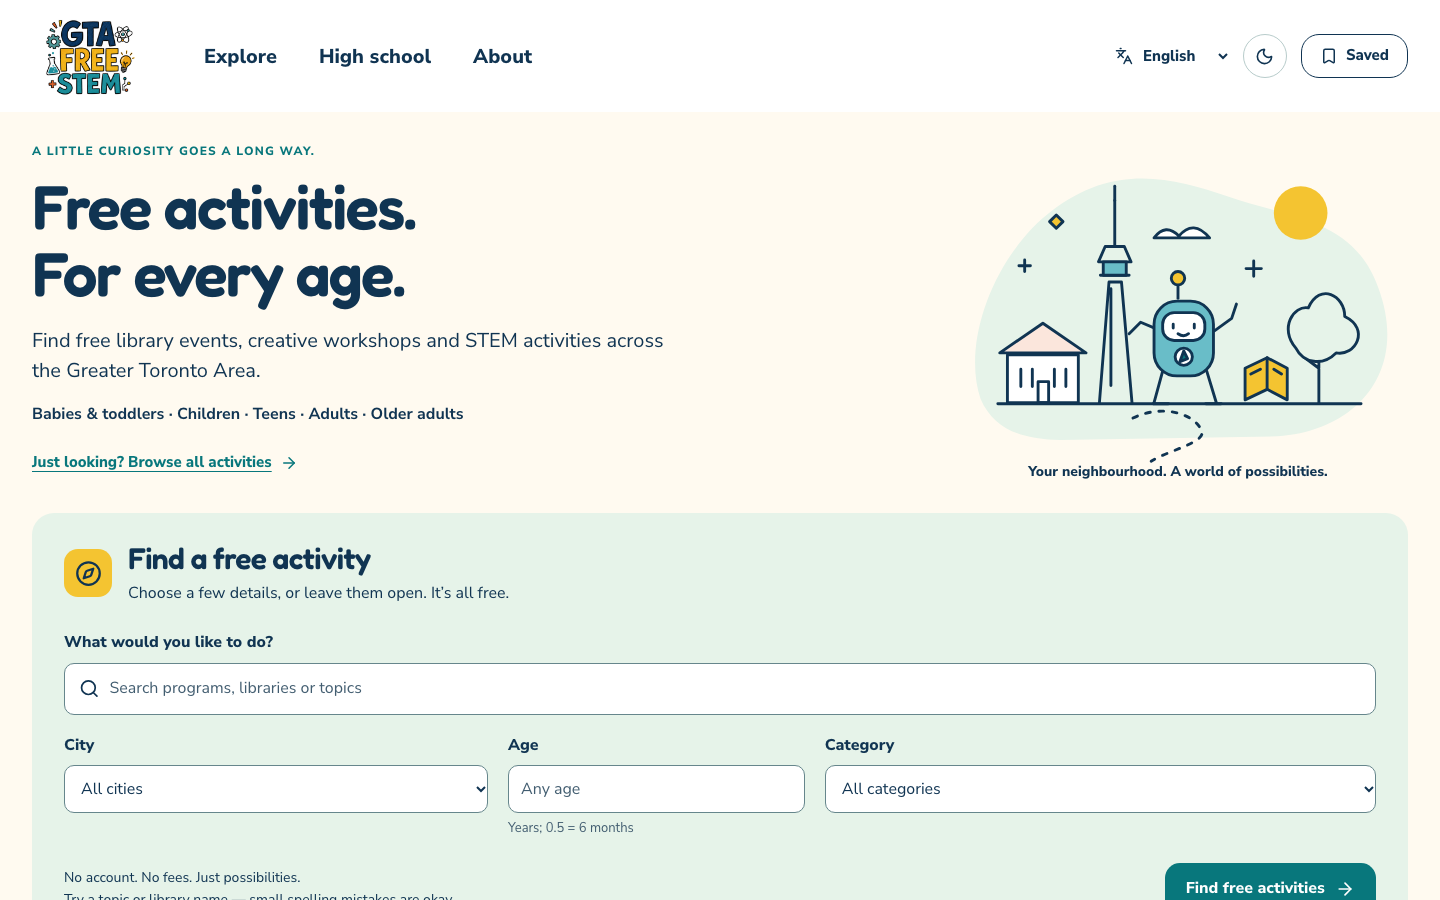
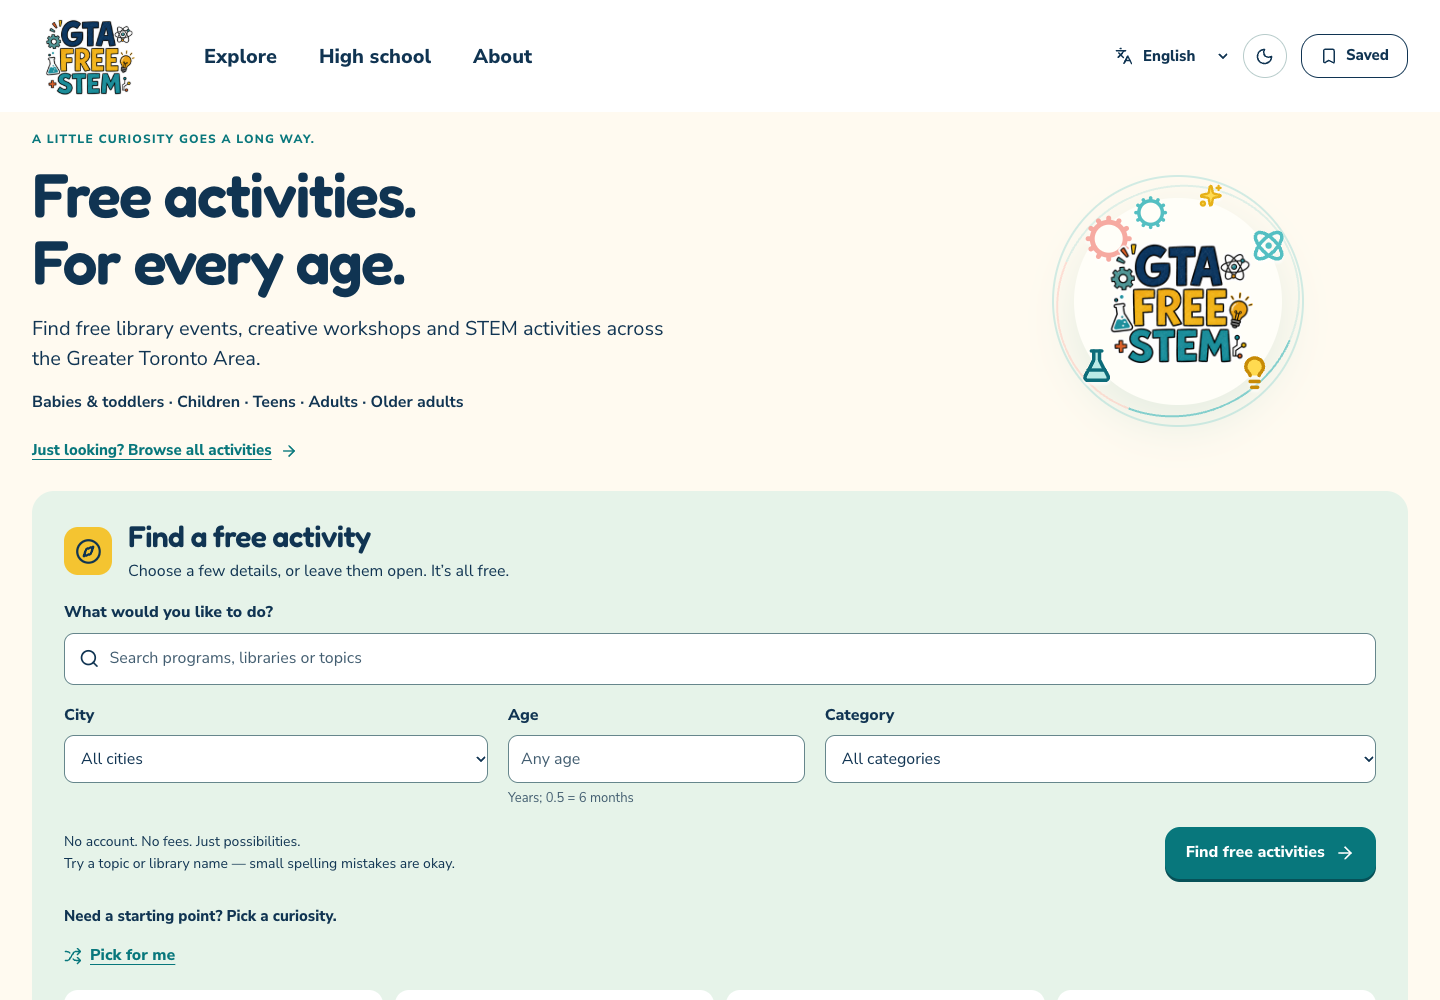
Show the live website with fresh map and mobile screenshots

diff --git a/docs/showcase/README.md b/docs/showcase/README.md
@@ -1,5 +1,20 @@
-# Screenshot provenance
+# Website screenshots and release checks
 
-The two images linked from the main README, `web-home-live-2026-10-27.png` and `web-browse-live-2026-10-27.png`, were captured from the public site at https://gta-free-stem.pages.dev/ and https://gta-free-stem.pages.dev/opportunities/ on October 27, 2026. Capture method: headless Google Chrome, 1440 × 900 browser viewport, with seven to nine seconds allowed for page loading. The images are unretouched and show the live public feed at capture time. They are web browser evidence only; they do not demonstrate iOS or Android behavior.
+These images were captured from the public website on October 27, 2026, after deploying [website release 779064a](https://github.com/rupayon123/gta-free-stem-opportunities/commit/779064a6e3bceffacb51639d95c6ddb825a6ce60).
 
-The older `home.png`, `search.png`, `high-school.png`, and `profile.png` files remain as a September 11, 2026 archive from the former Vercel address. They are not current product screenshots. The old High School search had no matches and Profile showed a sign-in dialog; no account was created or personal information entered.
+| Screenshot | What it shows | Browser viewport |
+| --- | --- | --- |
+| [Home](web-home-live-2026-10-27.png) | Original GTA logo, science icons, search and visible city/age/category filters | 1440 × 1000 |
+| [Map](web-browse-live-2026-10-27.png) | The default activity view, grouped location markers and the List switch | 1440 × 1000 |
+| [List](web-list-live-2026-10-27.png) | The same activities and filters presented as cards | 1440 × 1000 |
+| [Mobile](web-mobile-live-2026-10-27.png) | Compact branding and the search/filter form on a narrow screen | 390 × 1000 |
+
+Capture method: headless Google Chrome with reduced motion enabled. Images are unretouched browser captures of https://gta-free-stem.pages.dev/ and its activity directory. [Machine-readable capture receipt](web-capture-receipt.json) records URLs, sizes, time and the deployed source commit. These screenshots demonstrate the website; native app release checks are tracked in their respective repositories.
+
+## Checks for this release
+
+Before pushing the application update, TypeScript, the full website QA suite, production build, dependency audit and all 7,810 sitemap/canonical-page checks passed. Browser checks covered phone, small phone, tablet and desktop layouts; animation pause/resume, keyboard operation and reduced motion; dark mode and Urdu right-to-left layout; typo search; Map-first and the List switch; saved activities surviving reload; directory/detail links; rapid query changes; and the List fallback when map tiles are unavailable. The production dependency audit reported zero vulnerabilities.
+
+Public-site checks verified the deployed release and the unchanged 1,875-record native feed, and captured the real map and list views. Counts are a snapshot, not a promise of registration availability. The original provider confirms schedules, spaces and registration.
+
+The older `home.png`, `search.png`, `high-school.png`, and `profile.png` files remain as a September 11, 2026 archive from the former Vercel address. Use the dated October 27 images above for the current presentation.

diff --git a/README.md b/README.md
@@ -9,11 +9,11 @@ This repository contains the public website, search tools and source collectors.
 ## The web experience
 
 <table>
-<tr><th width="50%">Start with an interest</th><th width="50%">Browse source-backed activities</th></tr>
-<tr><td align="center"><a href="docs/showcase/web-home-live-2026-10-27.png"><img src="docs/showcase/web-home-live-2026-10-27.png" alt="Live website home showing the free activity search and optional city, age, and category filters" width="440"></a></td><td align="center"><a href="docs/showcase/web-browse-live-2026-10-27.png"><img src="docs/showcase/web-browse-live-2026-10-27.png" alt="Live opportunity directory showing search, filters, results, and original provider listings" width="440"></a></td></tr>
+<tr><th width="50%">Start with an interest</th><th width="50%">Explore the map first</th></tr>
+<tr><td align="center"><a href="docs/showcase/web-home-live-2026-10-27.png"><img src="docs/showcase/web-home-live-2026-10-27.png" alt="Live website home showing the free activity search and optional city, age, and category filters" width="440"></a></td><td align="center"><a href="docs/showcase/web-browse-live-2026-10-27.png"><img src="docs/showcase/web-browse-live-2026-10-27.png" alt="Live activity directory opening in Map view with location markers, visible filters, and the List switch" width="440"></a></td></tr>
 </table>
 
-Captured from the [public Cloudflare Pages website](https://gta-free-stem.pages.dev/) on October 27, 2026 at a 1440 × 900 desktop viewport. These are unretouched browser captures of the live site, not design mockups. Listings and result counts change as the public feed refreshes; the images show what appeared at capture time. [Capture details](docs/showcase/README.md).
+Captured from the [public website](https://gta-free-stem.pages.dev/) on October 27, 2026 at a 1440 × 1000 desktop viewport. [See the List view](docs/showcase/web-list-live-2026-10-27.png), [mobile layout](docs/showcase/web-mobile-live-2026-10-27.png), and [capture details](docs/showcase/README.md). These unretouched browser captures show the live release; result counts change as listings refresh.
 
 ## What you can do
 
